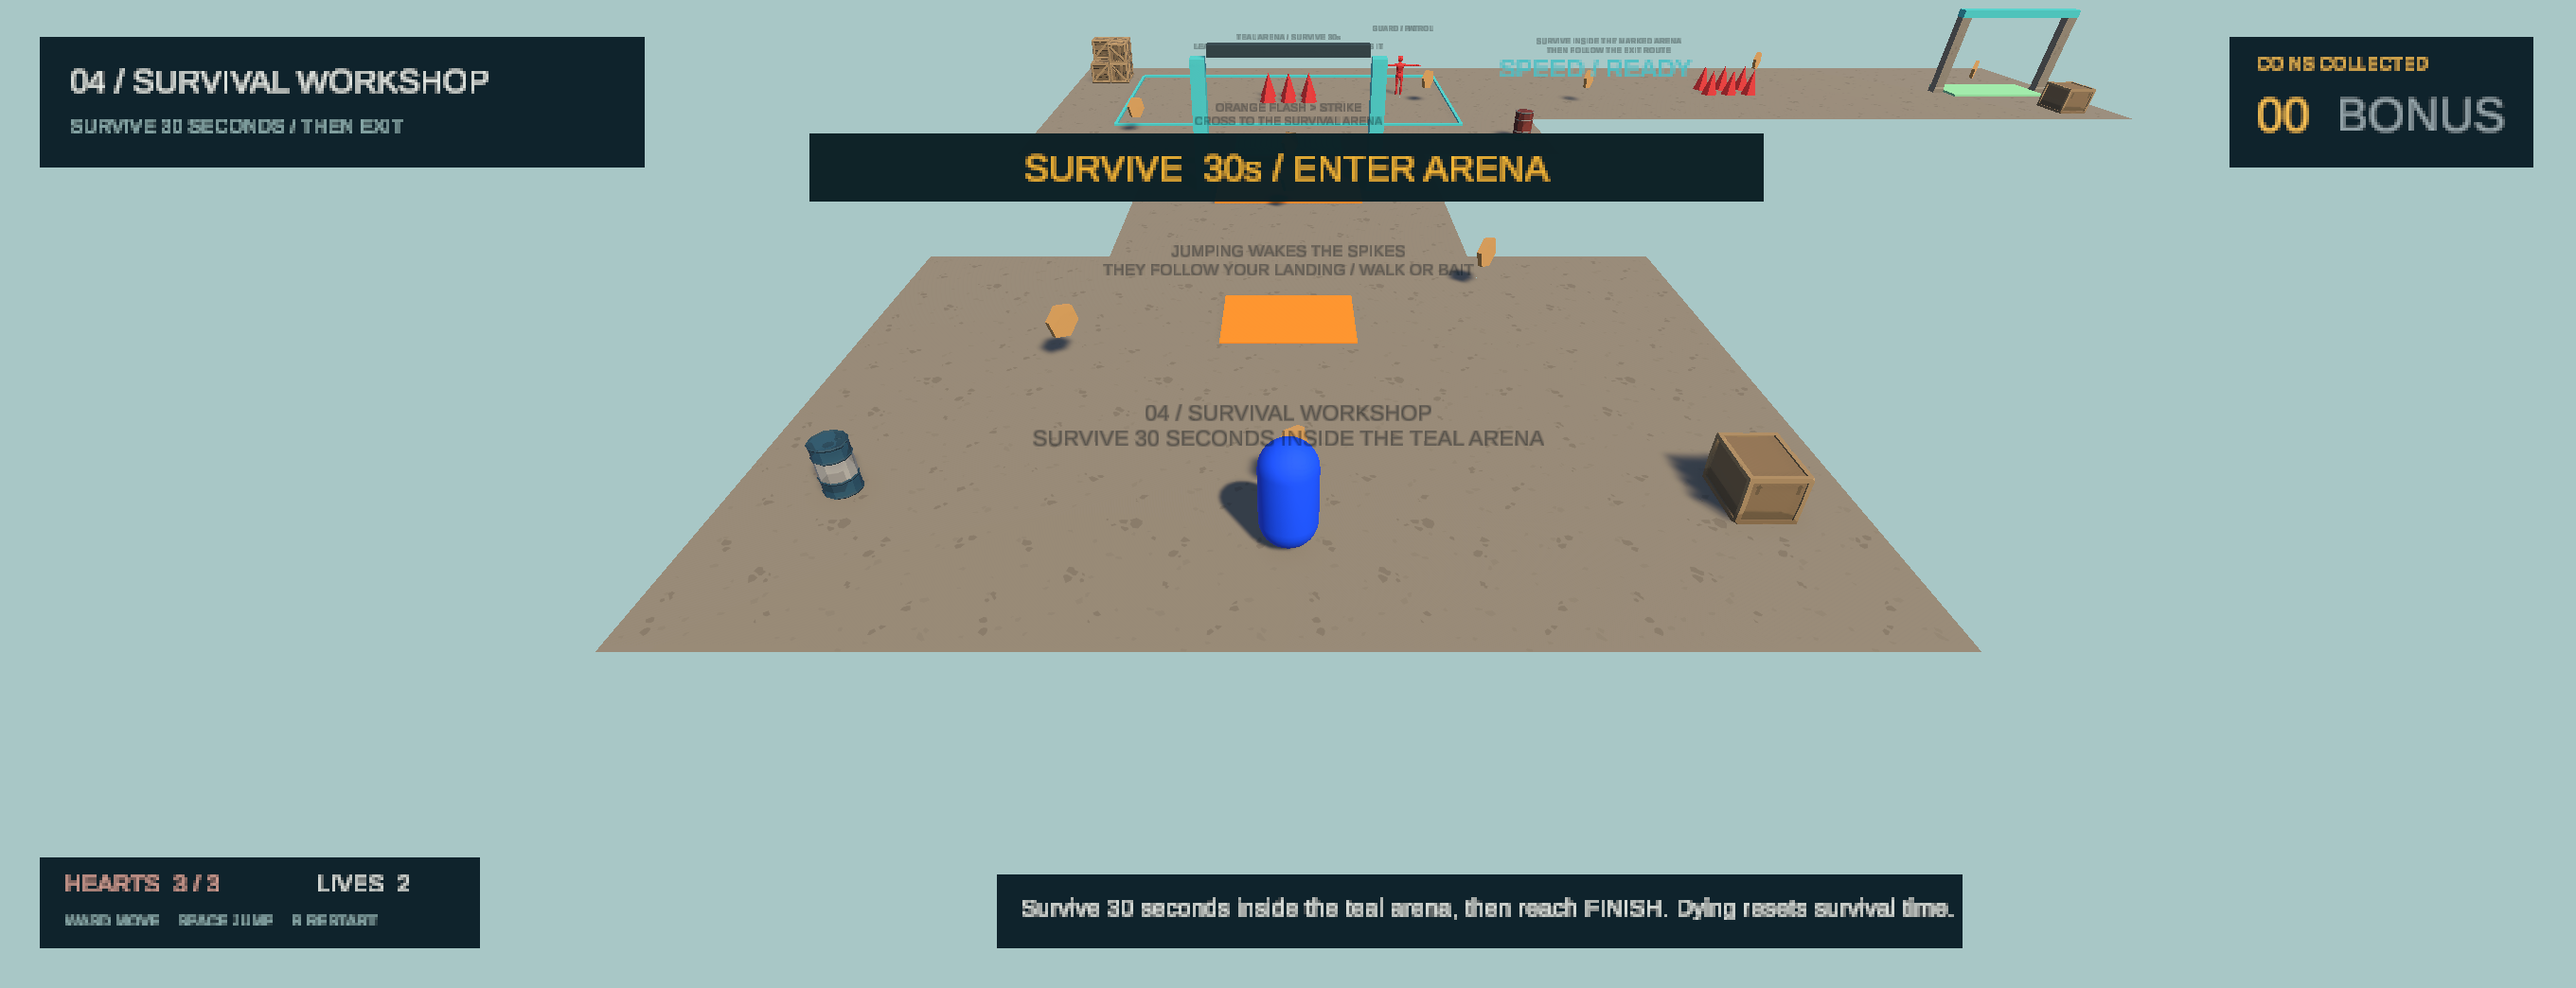
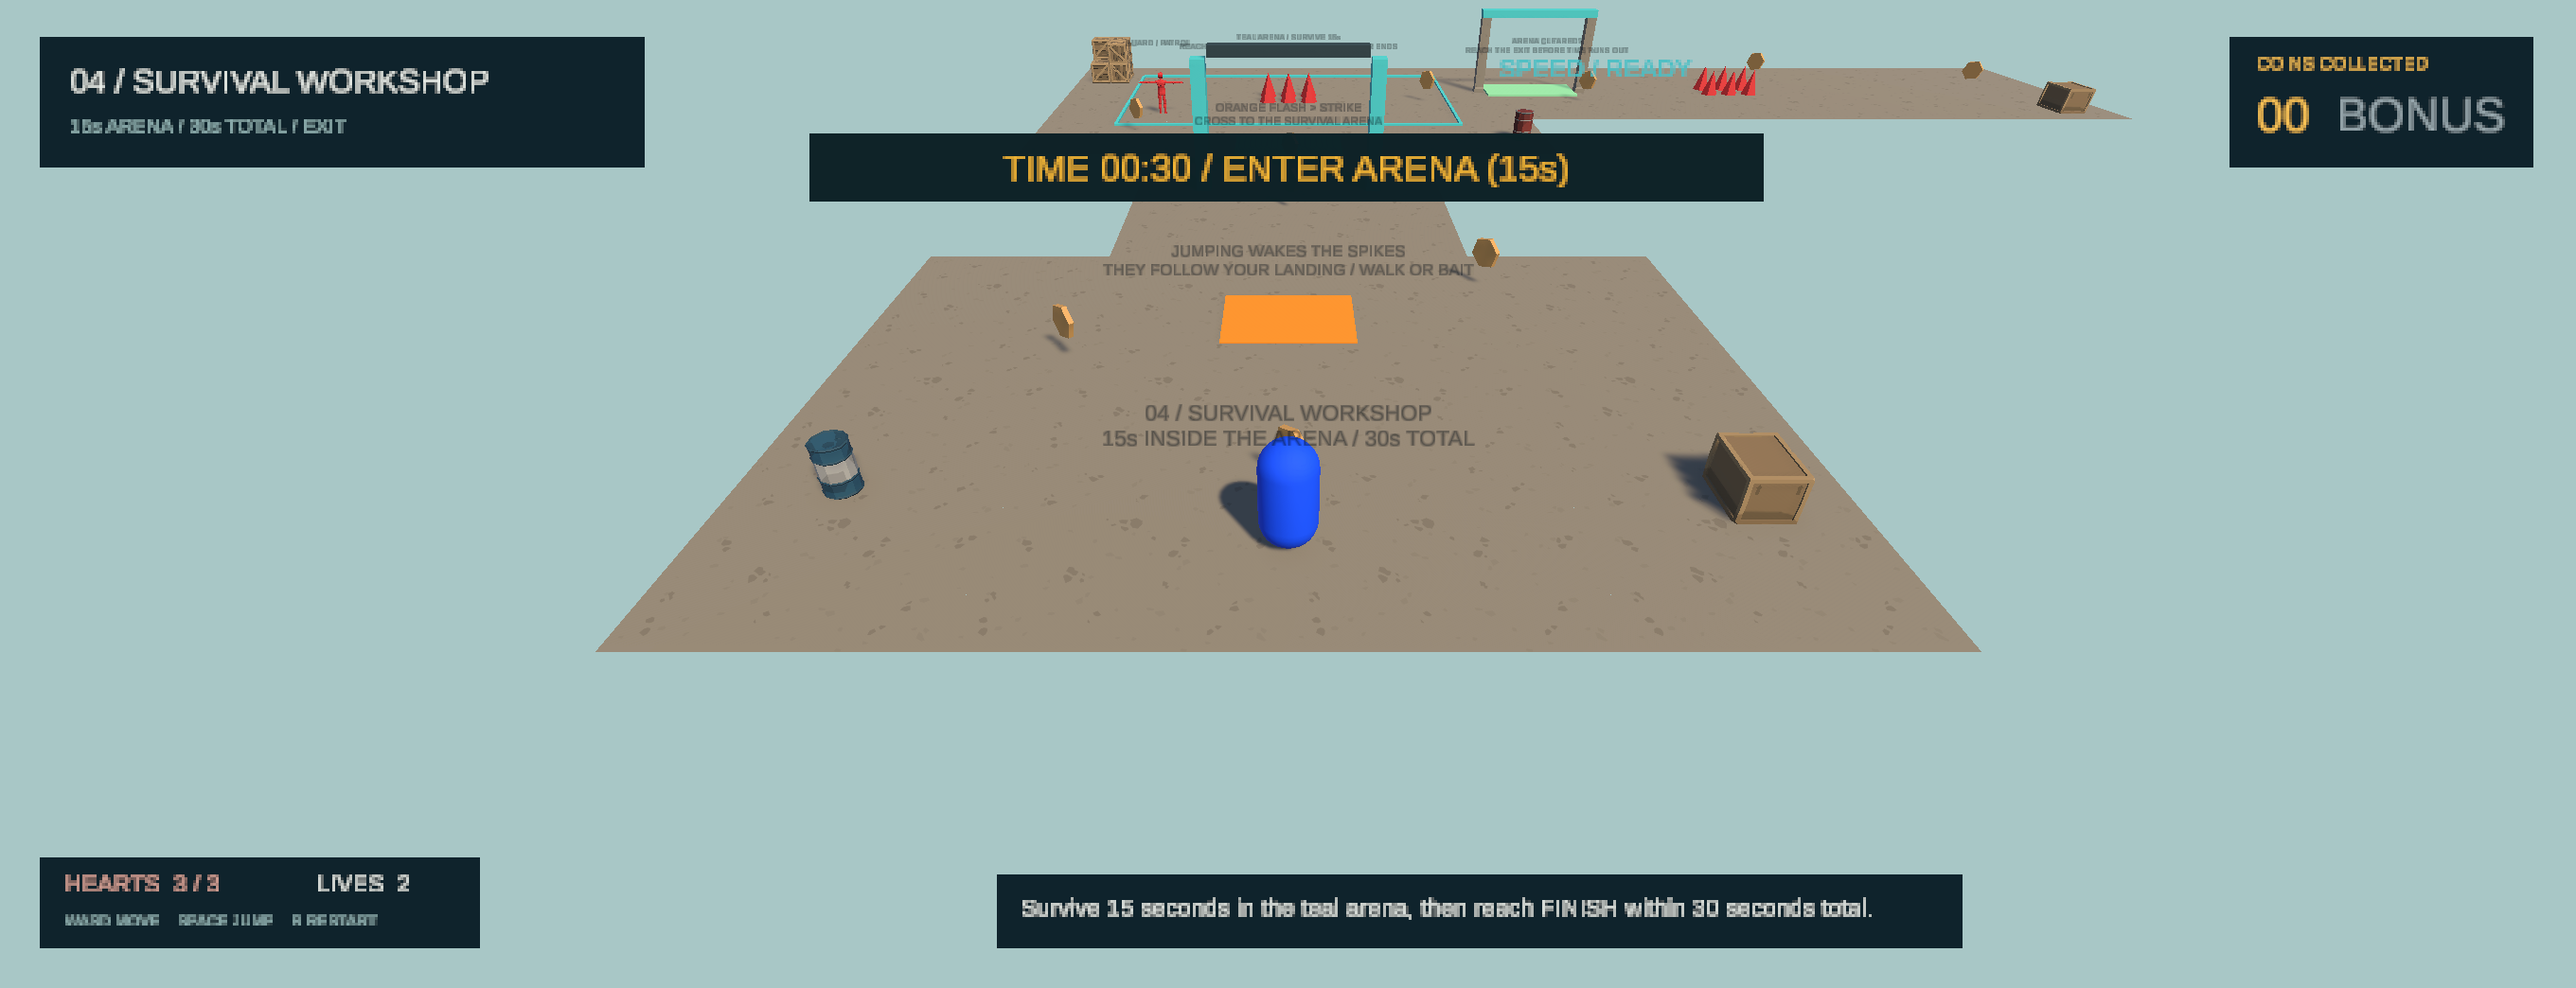
tune: finalize timed objectives and survival route

diff --git a/Assets/Scripts/A3/GameManager.cs b/Assets/Scripts/A3/GameManager.cs
@@ -71,7 +71,7 @@ namespace CS464.A3
         private bool UsesCoins => objectiveType == LevelObjective.CoinTarget ||
             objectiveType == LevelObjective.CollectAll || objectiveType == LevelObjective.TimedCollect;
         private bool IsTimed => objectiveType == LevelObjective.TimedEscape ||
-            objectiveType == LevelObjective.TimedCollect;
+            objectiveType == LevelObjective.TimedCollect || objectiveType == LevelObjective.Survive;
         private bool ObjectiveComplete => (!UsesCoins || score >= targetScore) &&
             (objectiveType != LevelObjective.Survive || survivalElapsed >= survivalDuration);
 
@@ -270,15 +270,19 @@ namespace CS464.A3
         {
             if (timerText == null) return;
             string label;
-            if (IsTimed)
+            if (objectiveType == LevelObjective.Survive)
+            {
+                int seconds = Mathf.CeilToInt(remainingTime);
+                string task = survivalElapsed >= survivalDuration ? "REACH EXIT"
+                    : insideSurvivalArea ? $"SURVIVE {Mathf.CeilToInt(survivalDuration - survivalElapsed)}s"
+                    : $"ENTER ARENA ({Mathf.CeilToInt(survivalDuration - survivalElapsed)}s)";
+                label = $"TIME {seconds / 60:00}:{seconds % 60:00} / {task}";
+            }
+            else if (IsTimed)
             {
                 int seconds = Mathf.CeilToInt(remainingTime);
                 label = $"TIME  {seconds / 60:00}:{seconds % 60:00}";
             }
-            else if (objectiveType == LevelObjective.Survive)
-                label = survivalElapsed >= survivalDuration ? "ARENA CLEARED"
-                    : $"SURVIVE  {Mathf.CeilToInt(survivalDuration - survivalElapsed)}s" +
-                        (insideSurvivalArea ? "" : " / ENTER ARENA");
             else label = objectiveType == LevelObjective.CollectAll ? "COLLECT EVERY COIN" : $"COLLECT {targetScore} + EXIT";
             if (label == lastTimerLabel) return;
             timerText.text = label;

diff --git a/README.md b/README.md
@@ -11,14 +11,14 @@ Open the project in **Unity 6000.3.24f1**, open `Assets/Scenes/Level01.unity` an
 | Level | Objective | Challenge | Lives |
 |---|---|---|---|
 | 1 — Training Courtyard | Collect any 5 coins and reach the exit. | Safe collection, bounce balcony and gap jump. | 3 |
-| 2 — Timed Escape | Reach the exit within 60 seconds. | Spikes, a narrow bridge and a sideways gap. Coins are bonuses. | 3 |
+| 2 — Timed Escape | Reach the exit within 20 seconds. | Spikes, a narrow bridge and a sideways gap. Coins are bonuses. | 3 |
 | 3 — Coin Sweep | Collect all 10 coins, then reach the exit. | A patrol/chase/return guard and spike beds. | 2 |
-| 4 — Survival Workshop | Survive 30 seconds inside the teal arena, then reach the exit. | Crusher, sliding spikes, arena spikes and a faster guard. Coins are bonuses. | 2 |
-| 5 — Final Escape | Collect 10 coins and reach the exit within 90 seconds. | Mixed hazards, the fastest guard, two speed potions and a final gap. | 2 |
+| 4 — Survival Workshop | Survive 15 seconds inside the teal arena and reach the nearby exit within 30 seconds total. | Approach route, arena spikes and a faster guard. Coins are bonuses. | 2 |
+| 5 — Final Escape | Collect 10 coins and reach the exit within 25 seconds. | Mixed hazards, the fastest guard, two speed potions and a final gap. | 2 |
 
 Screenshots: [Level 1](Docs/level01.png) · [Level 2](Docs/level02.png) · [Level 3](Docs/level03.png) · [Level 4](Docs/level04.png) · [Level 5](Docs/level05.png).
 
-The survival clock pauses outside the arena and resets when a life is lost. Countdown timers continue during respawn. Restart resets the level's timer, coins, hearts and lives.
+The survival clock pauses outside the arena and resets when a life is lost. Level 4 uses its original starting position and a nearby exit. Its overall 30-second countdown, like the timers in Levels 2 and 5, continues outside the arena and during respawn. Restart resets the level's timer, coins, hearts and lives.
 
 ## Gameplay
 
